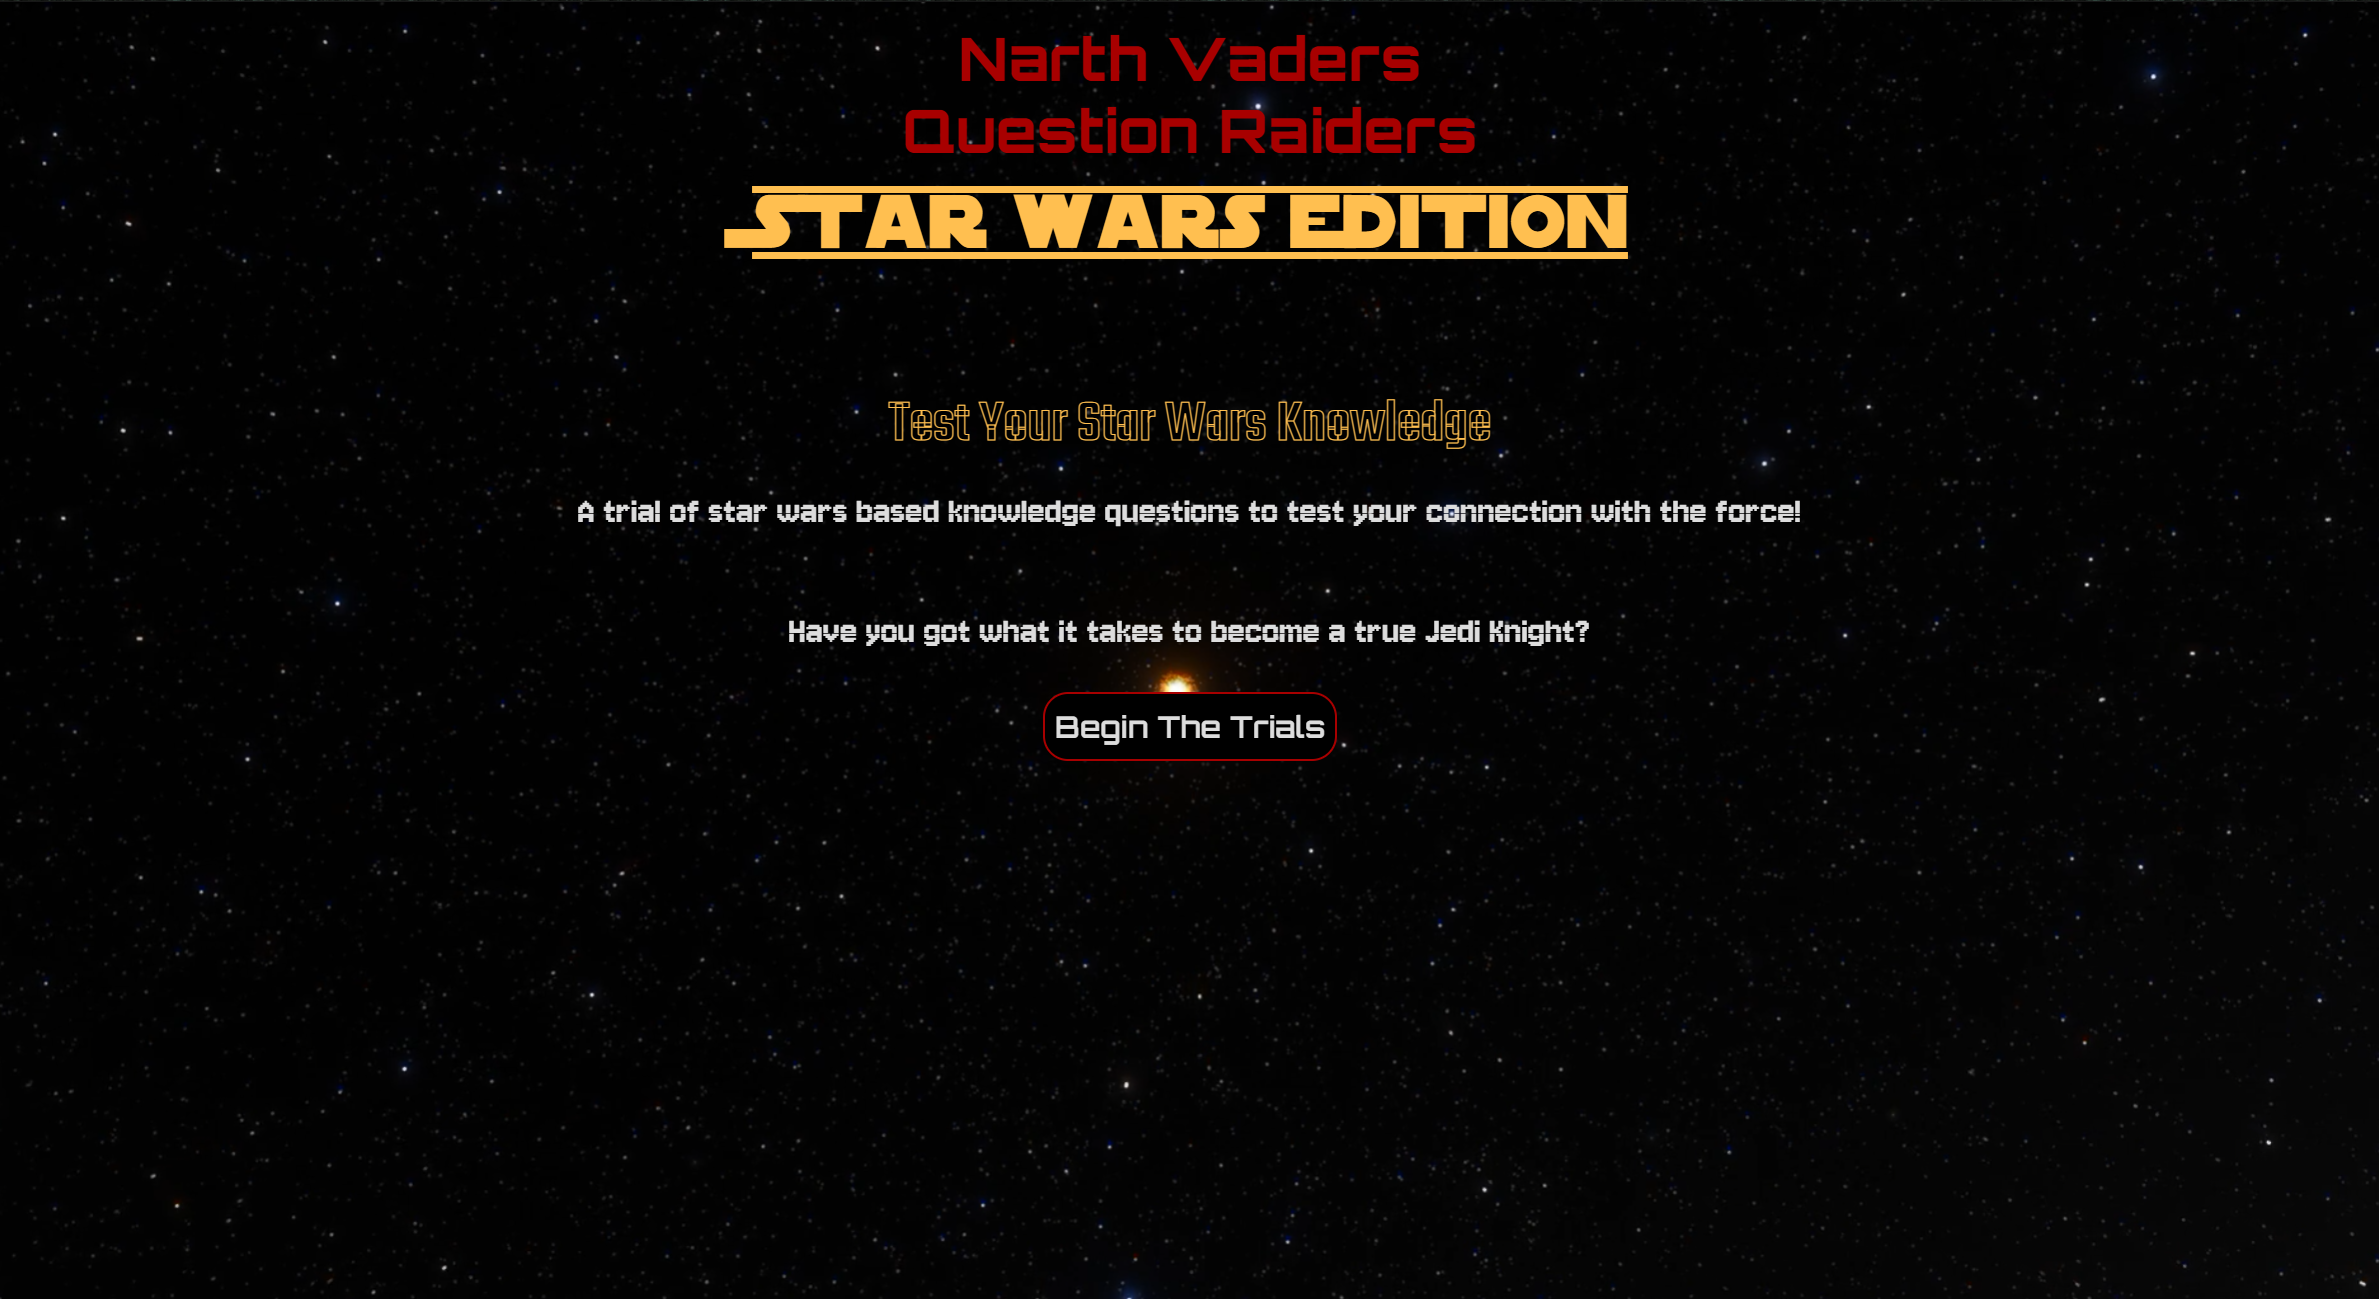
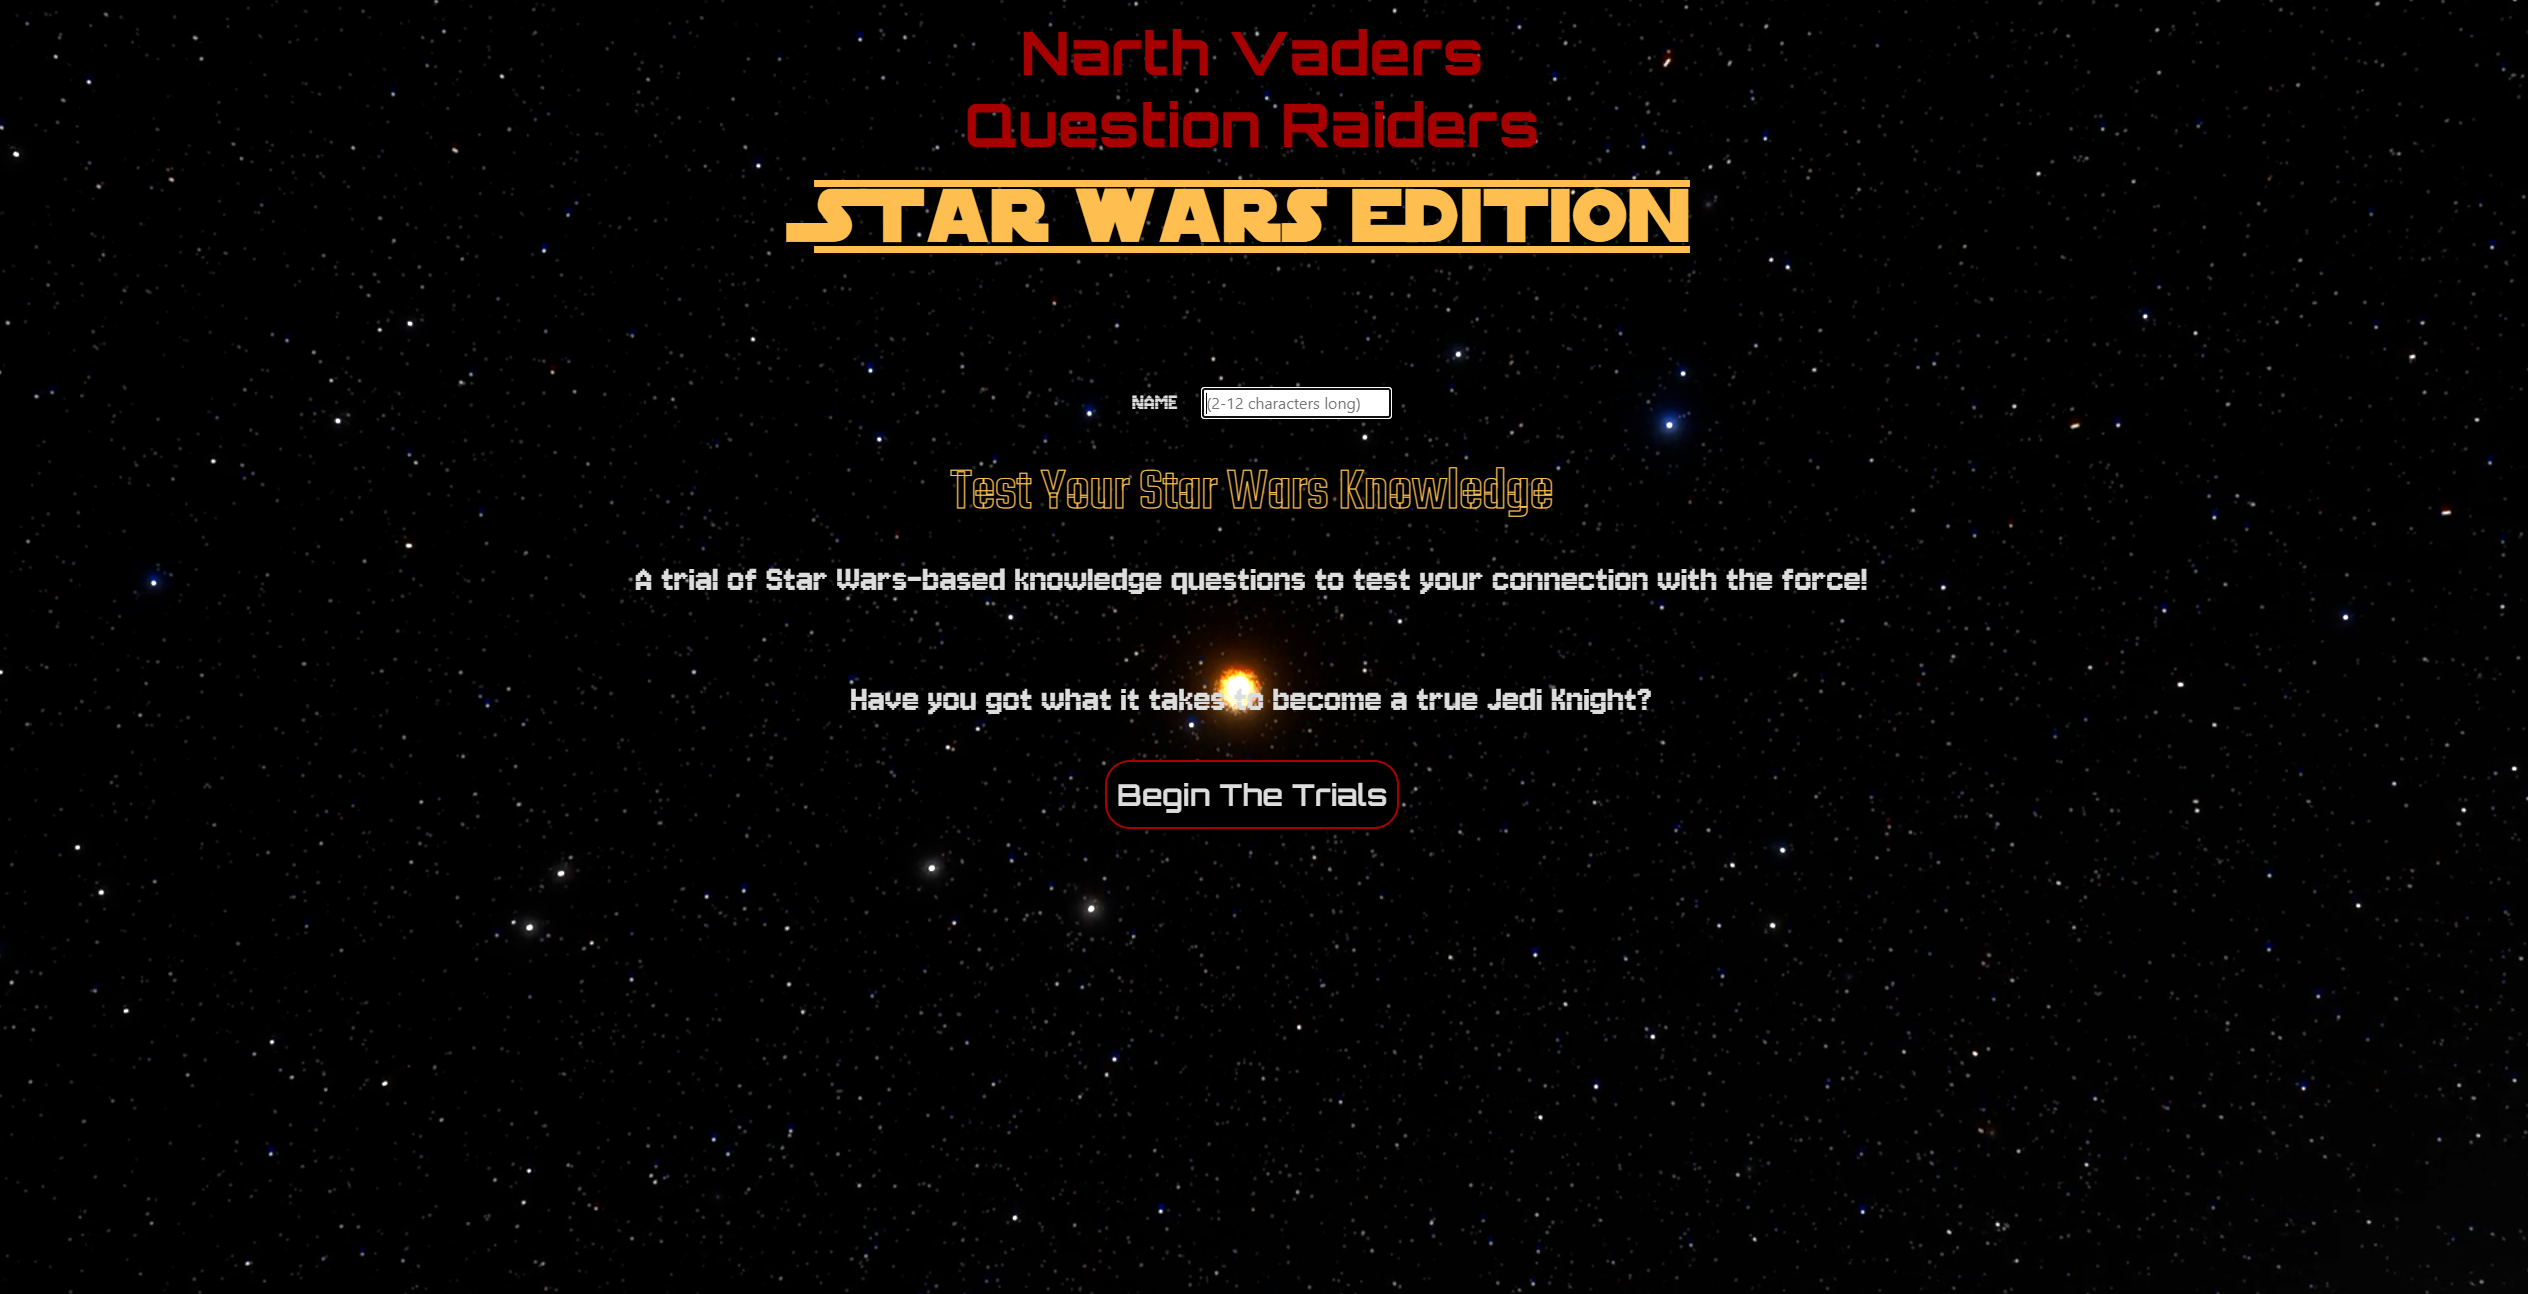
Test manually and fixed issues with conflicting html causing reference erros in console with close modal and play again buttons

diff --git a/index.html b/index.html
@@ -79,10 +79,8 @@
                         <p id="play-again-text">Would you like to play again?</p>
                     </div>
                     <div class="modal-footer">
-                        <button type="button" class="btn btn-secondary close-btn" id="close-modal"
-                            onclick="closeModal()">Close</button>
-                        <button type="button" class="btn btn-primary play-again-btn" id="play-again-btn"
-                            onclick="playAgain()">Play Again</button>
+                        <button type="button" class="btn btn-secondary close-btn" id="close-modal">Close</button>
+                        <button type="button" class="btn btn-primary play-again-btn" id="play-again-btn">Play Again</button>
                     </div>
                 </div>
             </div>

diff --git a/readme.md b/readme.md
@@ -6,9 +6,9 @@ Narth Vaders Question Raiders | Star Wars Edition is an online quiz game built t
 
 Anybody can access it and play the quiz game to test themselves. This can be done via desktop, tablet or mobile as the game is responsive. 
 
-All users will go throught 10 randoim questions picked from and object array of 21 questions and recieve a score out of 10 at the end with a message depending on what score they got.
+All users will go throught 10 random questions picked from and object array of 21 questions and recieve a score out of 10 at the end with a message depending on what the user scored.
 
-![Hunter Kitchen Design](/assets/img/star-wars-quiz-game-start-screen.png)
+![Narth Vaders Question Raiders | Star Wars Edition](/assets/img/star-wars-quiz-game-start-screen.png)
  
 [View Narth Vaders Question Raiders | Star Wars Edition project here](https://github.com/DarthKoder/Star-Wars-Question-Raider)
 - - -
@@ -41,9 +41,11 @@ All users will go throught 10 randoim questions picked from and object array of 
 
 This website is designed to provide users enjoyment whilst seamlessly testing their Star Wars knowledge using a fun 10 question quiz game to do so.
 
-The aim is to cater to all fans of the genre, weather they are die hard fans or just dabbling in the genre the game is here to not only test but help people learn more about Star Wars. It is intuitive and informative at the same time.
+The aim is to cater to all fans of the genre, whether they are die hard fans or just dabbling in it. The game is here to not only test, but help people learn more about Star Wars and is also intuitive and informative at the same time.
 
-There is clear and simple intuitive buttons as guidance to help the user along their way, such as "Begin The Trials" start button, multiple choice questions to pick from and also "Next" & "Finish" buttons for the game. The results modal has the "Close" & "Play Again" buttons also. 
+There is clear and simple intuitive buttons as guidance to help the user along their way, such as a "Begin The Trials" start button, multiple choice questions to pick from and also "Next" & "Finish" buttons for the game. The results modal has the "Close" & "Play Again" buttons also. 
+
+The user must input their name to begn the game which is then used in the result screen to create a more personal experience.
 
 To help inspire the user and bring them into the Star Wars universe for their experience, I have used familiar colours and fonts as well as an animated space background to help make the user feel immersed and really connect with the Star Wars theme. 
 
@@ -73,22 +75,24 @@ To help inspire the user and bring them into the Star Wars universe for their ex
 
 * This website is targeting people who interested in Star Wars.
 * The user can enjoy the Star Wars aesthetic whist testing their knowledge with a 10 question quiz game.
-* They can use the intuitive design to navigate through the game with ease, weather on a mobile,tablet or desktop computer.
-* It has responsive logic to higlight correct and incorrect questions to help the use know if they are correct or to learn where they went wrong.
+* They can use the intuitive design to navigate through the game with ease, whether on a mobile, tablet or desktop computer.
+* It has responsive logic to higlight correct and incorrect questions to help the user know if they are correct or to learn where they went wrong.
 
 ### Existing Features
 
 * Game Title
-    * This is the game title and series edition to show what the game is about and can be seen as constant throught the game and series (if any future game editions are to be made)
-    * I have use the famouse Star Wars colours for this such as the Star Wars yellow #ffbf50 & sith red #a80000, which is also the logos/series main colour.
+    * This is the game title and series edition to show what the game is about and can be seen as constant throught the game and series (if any future game editions are to be made).
+    * I have used the famous Star Wars colours for this such as the Star Wars yellow #ffbf50 & sith red #a80000, which is also the logos/series main colour.
 
     ![Game Title](assets/img/sw-quiz-title.png)
 
 * Starting Screen
     * It is the opening screen to the game.
-    * This has the game title and series edition to show what the game is about (this is the same throughout all screens)
+    * This has the game title and series edition to show what the game is about (this is the same throughout all screens).
     * It uses familliar fonts such as the "Star Wars" font and then "Orbitron", "Teko" & "Jersey 10" to give it more of a Star Wars feel and space like immersion.
-    * It contains a reactive button to allow easy navigation to start the game with an enticing prompt of "Begin The Trials" which is to be clicked to start the game. This button also has a hover effect to let the user know the button can be activated.
+    * This has a name input fiel with a min/max charcter requirement that must be filled out in able to start the game.
+    * The name input will be called in the results screen to bring a personalised experience for the user.
+    * It contains a reactive button to allow easy navigation to start the game, with an enticing prompt of "Begin The Trials", which is to be clicked to start the game. This button also has a hover effect to let the user know the button can be activated.
     * I have used colours associated with Star Wars such as sith red #a80000, the famous Star Wars yellow #ffbf50, Jedi green, Jedi blue #2b5a99 along with a contrasting pale, light #fafafa, all on the space style black #000000. These colours are to help make the user feel immersed and really connect with the Star Wars theme. 
 
     ![Starting Screen](assets/img/star-wars-quiz-game-start-screen.png)
@@ -103,7 +107,7 @@ To help inspire the user and bring them into the Star Wars universe for their ex
 
     * The questions that appear will be randomised and shall not repeat any question in one game. 
     * Depending on the users answer/input, the question choice clicked will highlight green if correct and red if incorrect. If incorrect the correct answer will also highlight green to help the user understand where they went wrong. 
-    * Once an answer/input has been given, the question buttons will be disable to stop the user from changing their answers.
+    * Once an answer/input has been given, the question buttons will be disabled to stop the user from changing their answers.
     * The question is using the "Star Wars" font in the Jedi blue colour.
     * The multiple choice questions each appear in an oblong box with a white background with black "Orbitron" font and a Star Wars yellow border.
     * The question buttons are also reactive and the background turns yellow when hovered over.
@@ -114,8 +118,8 @@ To help inspire the user and bring them into the Star Wars universe for their ex
 
     ![Question Screen Incorrect](assets/img/sw-quiz-incorrect-question.png)
 
-    * If the question number is below 10, the answer/input has been given and the answer has been chacked and highlighted correct or incorrect, a "Next" button will appear to move forward to the next question.
-    * If the question number is at 10, the answer/input has been given and the answer has been chacked and highlighted correct or incorrect, a "Finish" button will appear to end the game and bring up the results modal.
+    * If the question number is below 10, the answer/input has been given and the answer has been checked and highlighted correct or incorrect, a "Next" button will appear to move forward to the next question.
+    * If the question number is at 10, the answer/input has been given and the answer has been checked and highlighted correct or incorrect, a "Finish" button will appear to end the game and bring up the results modal.
     * These buttons will also be reactive and change the background colour when hovered over.
 
     ![Question Screen Next Button Hover](assets/img/sw-quiz-next-btn.png)
@@ -137,11 +141,11 @@ To help inspire the user and bring them into the Star Wars universe for their ex
        - This has a light #fafafa background 
        - The results score text is large and red #a80000 to stand out
        - The message text is black of colour
-       - The "Would you like to play gain?" text is in jedi green
-       - I have made these different colours to stand out and make it clear that they are different sections of the body
+       - The "Would you like to play again?" text is in jedi green.
+       - I have made these different colours to stand out and make it clear that they are different sections of the body.
     * The footer contains two buttons, one to close the modal and the other to play again and take the user back to the starting screen. 
-       - Both buttons have the original button layout with black background and withe text with a red border.
-       - The close button when hovered over has the background turn red like the othger buttons in the game.
+       - Both buttons have the original button layout with black background and white text with a red border.
+       - The close button when hovered over has the background turn red like the other buttons in the game.
        The play again button when hovered over, turns green to help signify the green light to play again. 
     * The results modal is designed to give a rewarding feel with a personal message to the player and also give the determionation to get better.
     * It is intuitive and informative at the same time.
@@ -181,7 +185,7 @@ To help inspire the user and bring them into the Star Wars universe for their ex
 * One issue I came across was that the "Next" button was not working when pressed. 
    - After rigorous testing and trial and error, I realised that I have the button disabled and had to enable it by editing code and moving the diplayNextQuestion function to the top. 
 
-* Another bug I had was that, while testing, I found that when i was going through the questions and it was surpassing the 10 question limit and had not end. 
+* Another bug I had was that, while testing, I found that when I was going through the questions and it was surpassing the 10 question limit and had not end. 
    - This was due having the code wrong for hiding the "Next" button and displaying the "Finish" button, which in turn,  never made it possible to end the game and bring up the results screen. 
 
 * The biggest issue I had after testing the game cycle and finish button appearing, was that the game was only displaying 4 questions before initializing the "Finish" button. 
@@ -268,7 +272,7 @@ The W3C Markup Validator and W3C CSS Validator services were used to validate ev
 <summary>style.css
 </summary>
 
-![JavaScript validation result](/assets/img/sw-quiz-jshint-test.png)
+![JavaScript validation result](/assets/img/)
 </details>
 
 ### Manual Testing
@@ -358,7 +362,7 @@ By forking the repository, we make a copy of the original repository on our GitH
 ### Content
 
  * All content was written by the developer.
- * [Color contrast checker](https://coolors.co/contrast-checker/112a46-acc8e5) was used to decide which colors would be used for the website.
+ * [Color contrast checker](https://coolors.co/contrast-checker/112a46-acc8e5) was used to decide which colours would be used for the website.
 
 ### Media 
 
@@ -370,4 +374,4 @@ By forking the repository, we make a copy of the original repository on our GitH
  * My mentor Mitko for helping me with ideas for the game and ways to build it. 
  * W3schools for the information online needed to help me build this game. 
  * Slack community for encouragement and information.
- * My motivation for this project was my parter, who is currently an up and coming Kitchen Designer and helped me with some of the information presented on the site; along with the image of her.I wanted to create this site for her and her future career.
+ * My motivation for this project was my love for Star Wars and wanted to build something for the community. 
